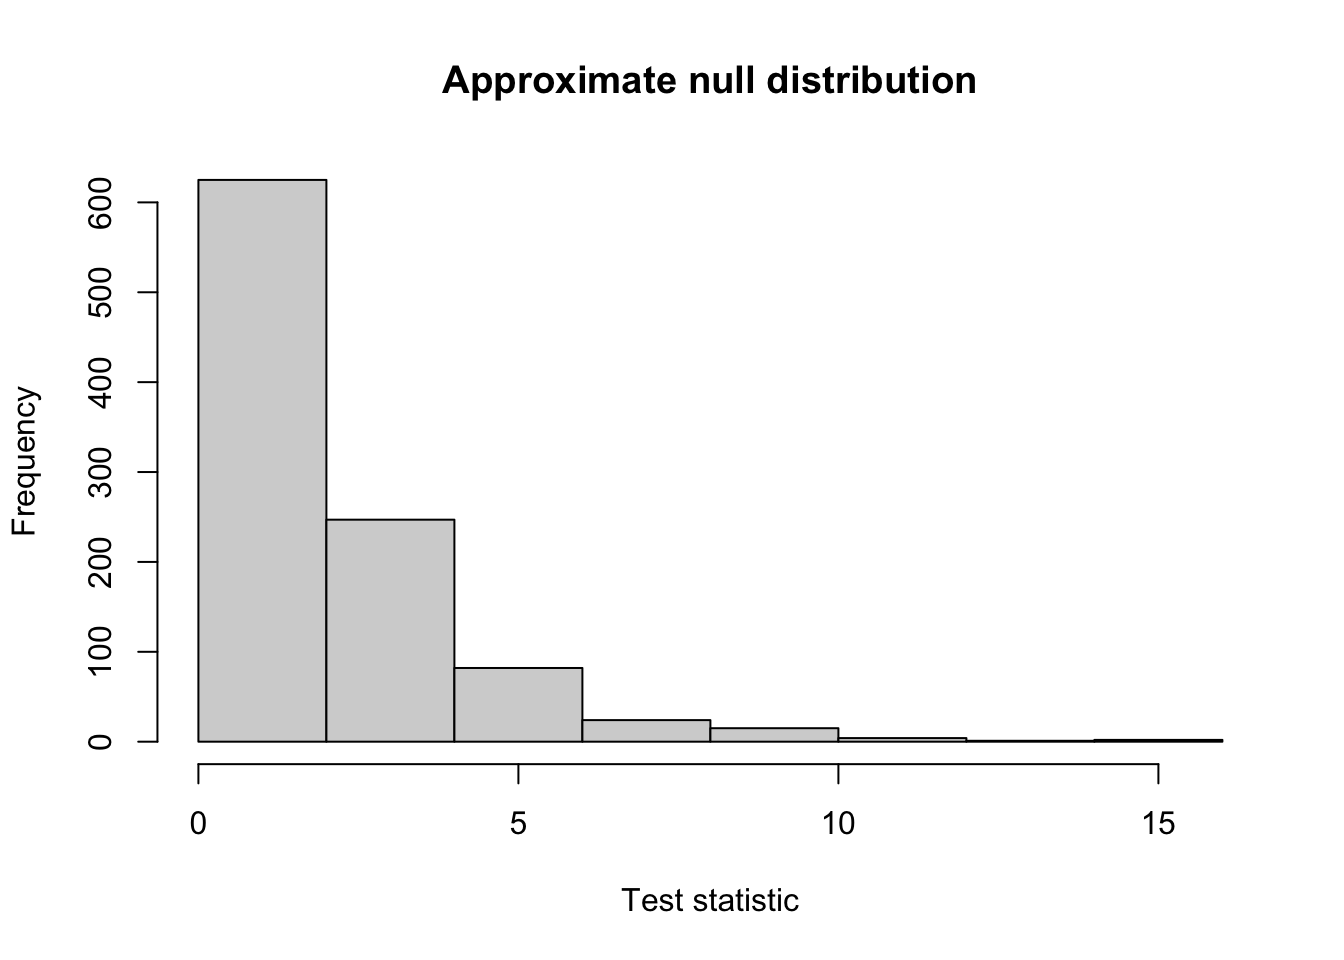
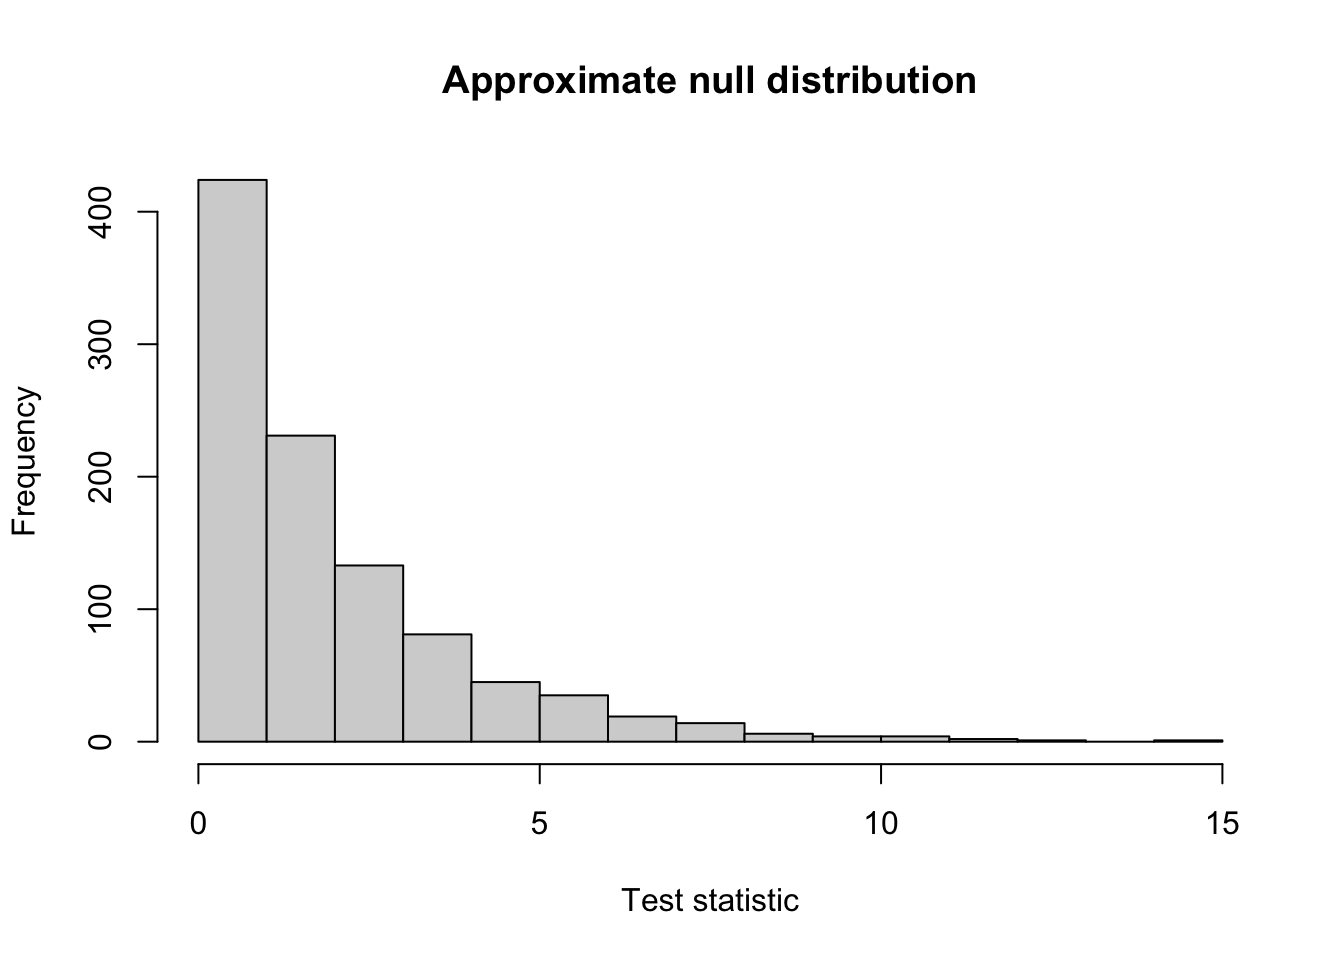
updating exam practice questions

diff --git a/class_activities/exam_1_review.html b/class_activities/exam_1_review.html
@@ -185,6 +185,23 @@ Residual deviance: 6620.7  on 9998  degrees of freedom</code></pre>
 </div>
 </section>
 </section>
+<section id="maximum-likelihood-practice-question" class="level2">
+<h2 class="anchored" data-anchor-id="maximum-likelihood-practice-question">Maximum likelihood practice question</h2>
+<p>This question is separate from the earthquake data discussed above.</p>
+<p>Suppose we have a variable <span class="math inline">\(Y\)</span> which can take three possible outcomes: <span class="math inline">\(Y = -1, 0\)</span>, or 1. We also know that:</p>
+<ul>
+<li><span class="math inline">\(P(Y_i = -1) = \pi\)</span></li>
+<li><span class="math inline">\(P(Y_i = 0) = 5\pi\)</span></li>
+<li><span class="math inline">\(P(Y_i = 1) = 1 - 6\pi\)</span></li>
+</ul>
+<p>where the parameter <span class="math inline">\(\pi\)</span> is unknown. We observe data</p>
+<p><span class="math display">\[1, 1, 0, 0, 1, 0, 1, -1, -1, -1\]</span></p>
+<p>and we want to estimate <span class="math inline">\(\pi\)</span> from the data.</p>
+<ol start="15" type="1">
+<li><p>Write down the likelihood function <span class="math inline">\(L(\pi)\)</span> for the observed data.</p></li>
+<li><p>Compute the maximum likelihood estimate <span class="math inline">\(\widehat{\pi}\)</span> from the observed data.</p></li>
+</ol>
+</section>
 
 </main>
 <!-- /main column -->
